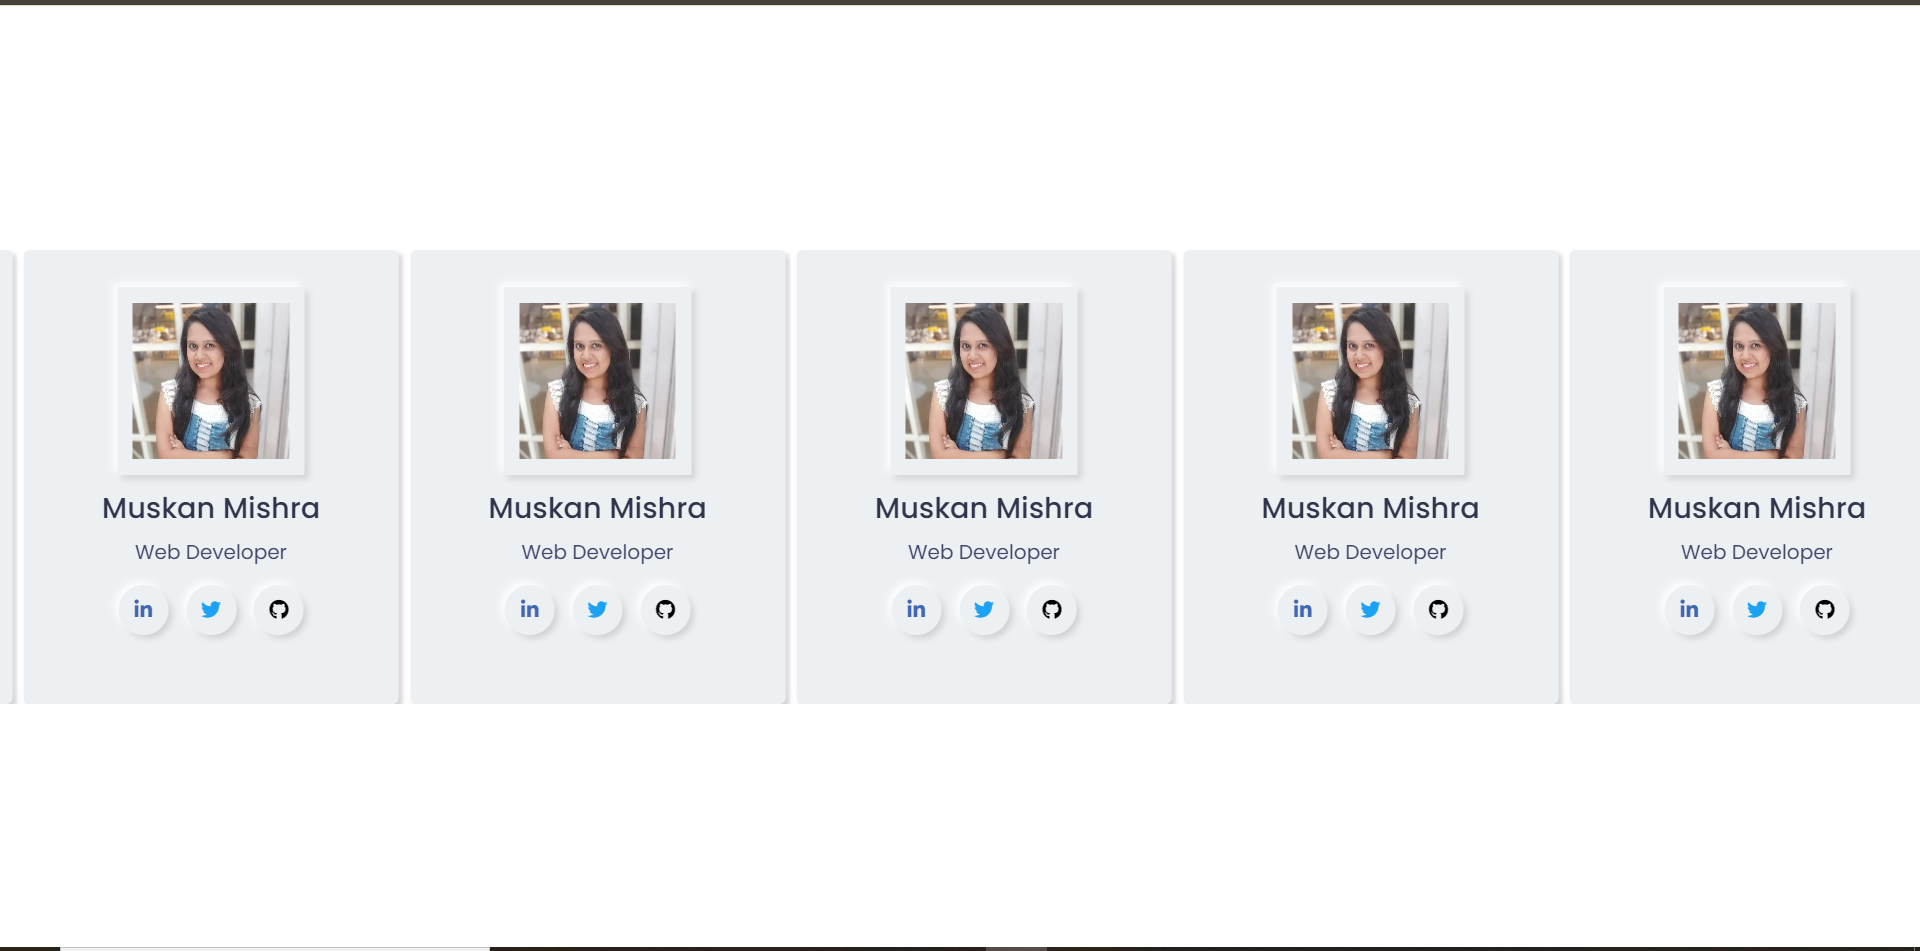
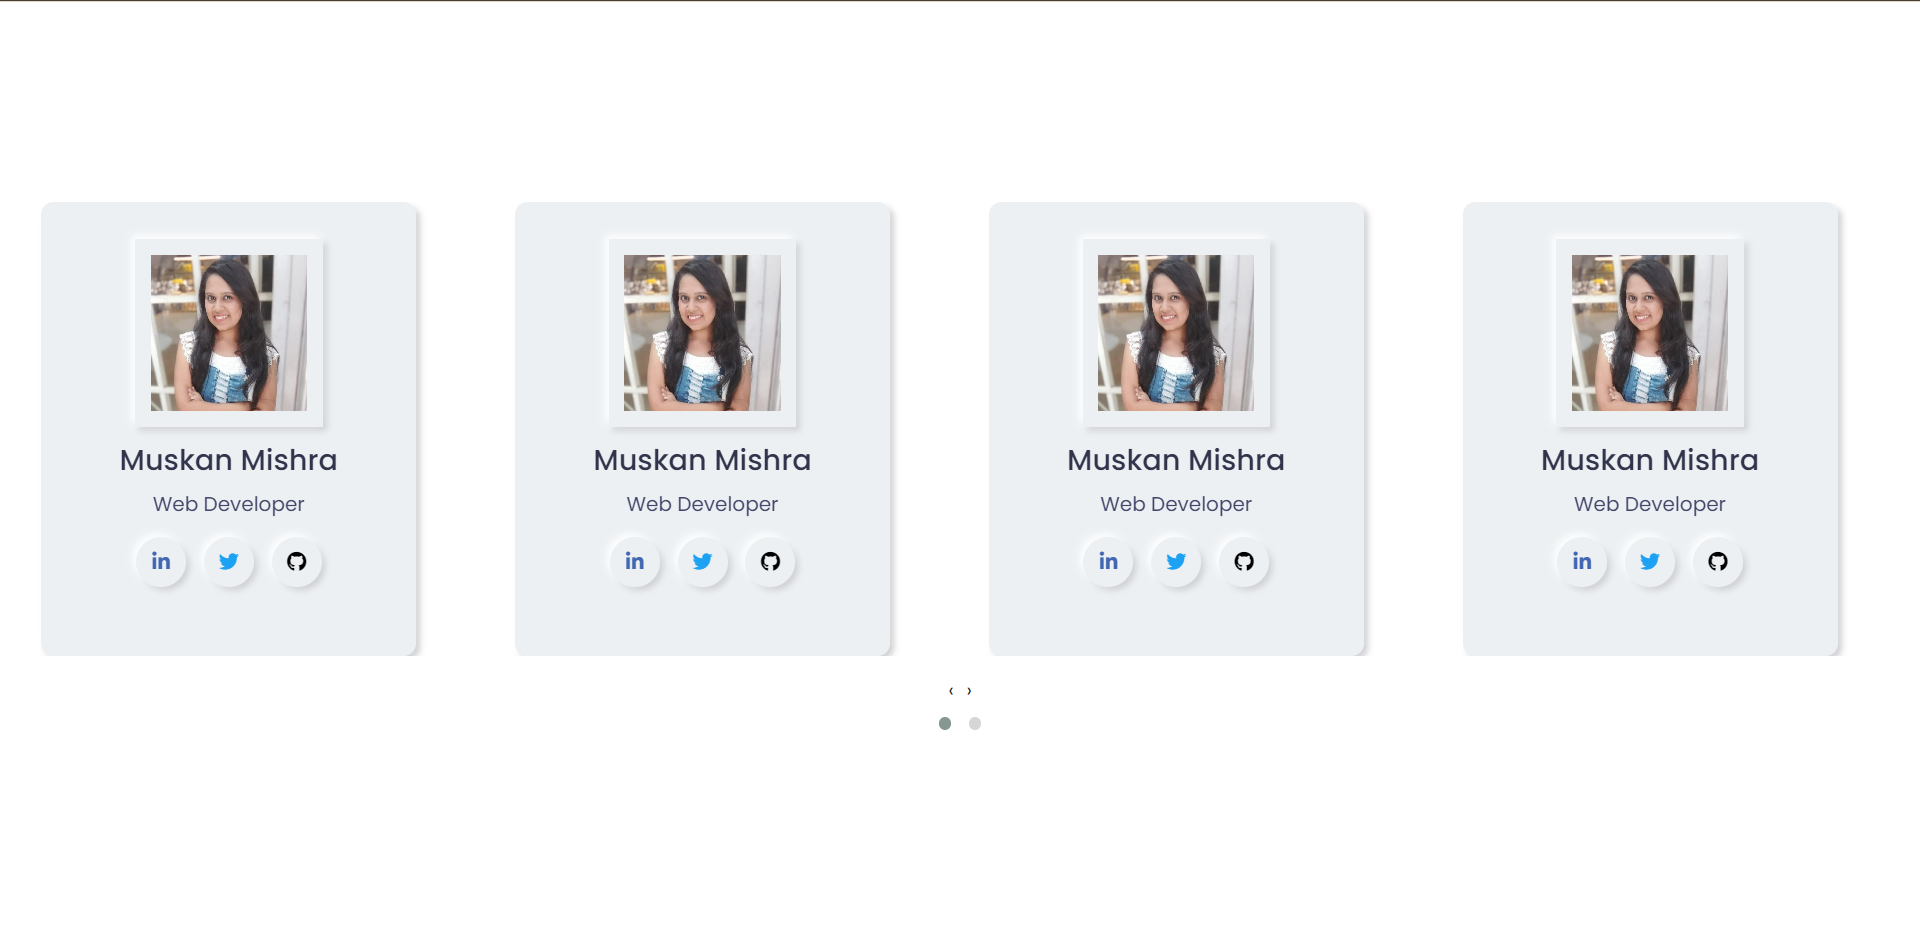
Sliding MemberPannelCards ui Updated

diff --git a/MemberPannelSlidingCards/index.html b/MemberPannelSlidingCards/index.html
@@ -17,7 +17,7 @@
 </head>
 <body>
  
-    <div class="owl-carousel owl-theme ">
+    <div class="owl-carousel owl-theme container-fluid ">
         <div class="item">
             <div class="wrapper">
                 <div class="img-area">
@@ -129,7 +129,7 @@
             items:3
         },
         1000:{
-            items:5
+            items:4
         }
     }
 })</script>

diff --git a/MemberPannelSlidingCards/style.css b/MemberPannelSlidingCards/style.css
@@ -24,7 +24,7 @@ body{
   position: relative;
   width: 300px;
   padding: 30px;
-  border-radius: 5px;
+  border-radius: 10px;
   display: flex;
   align-items: center;
   justify-content: center;
